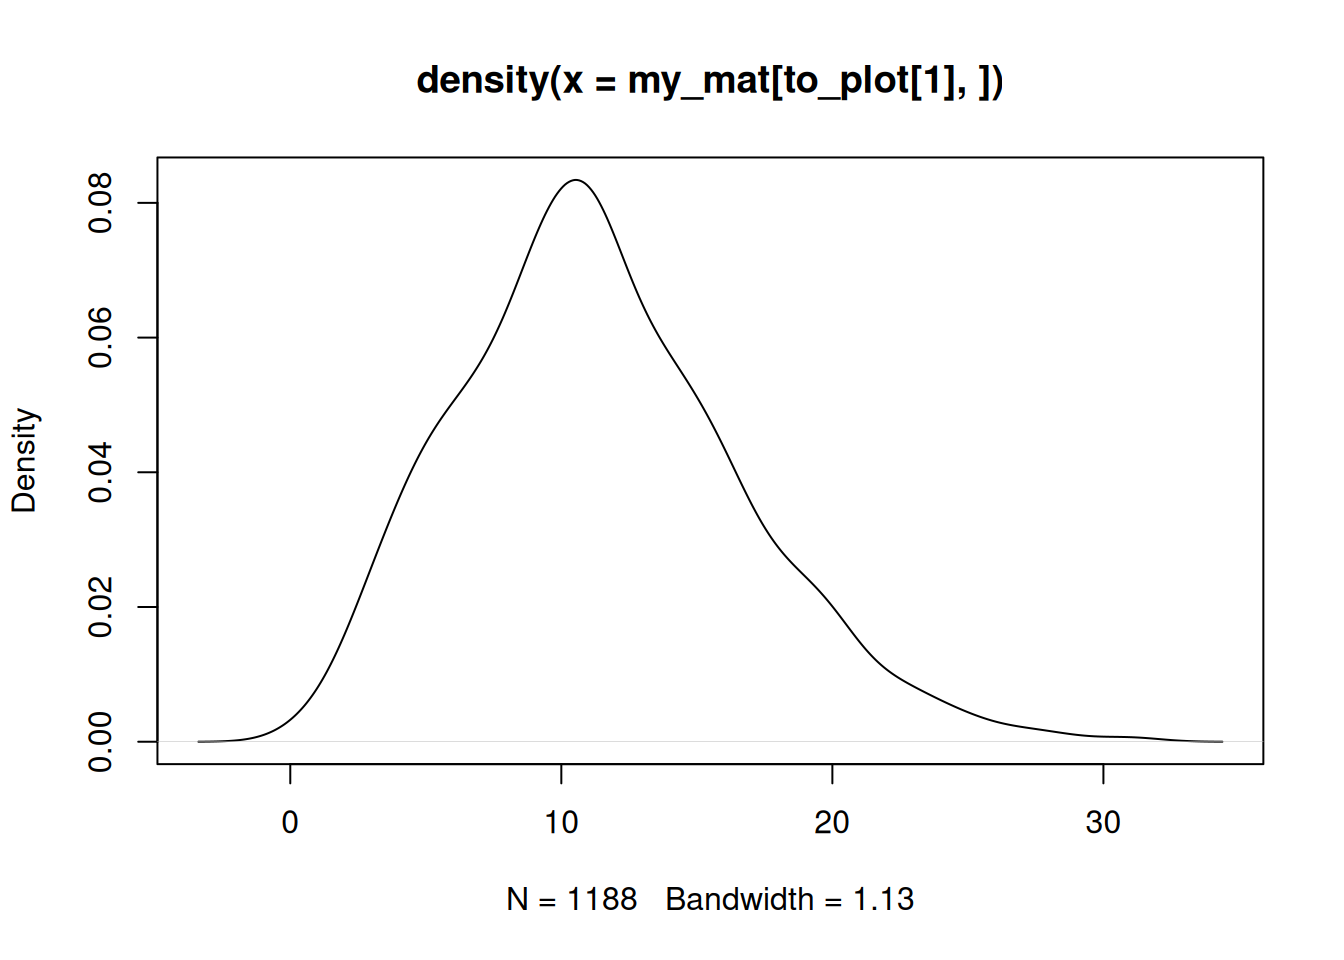
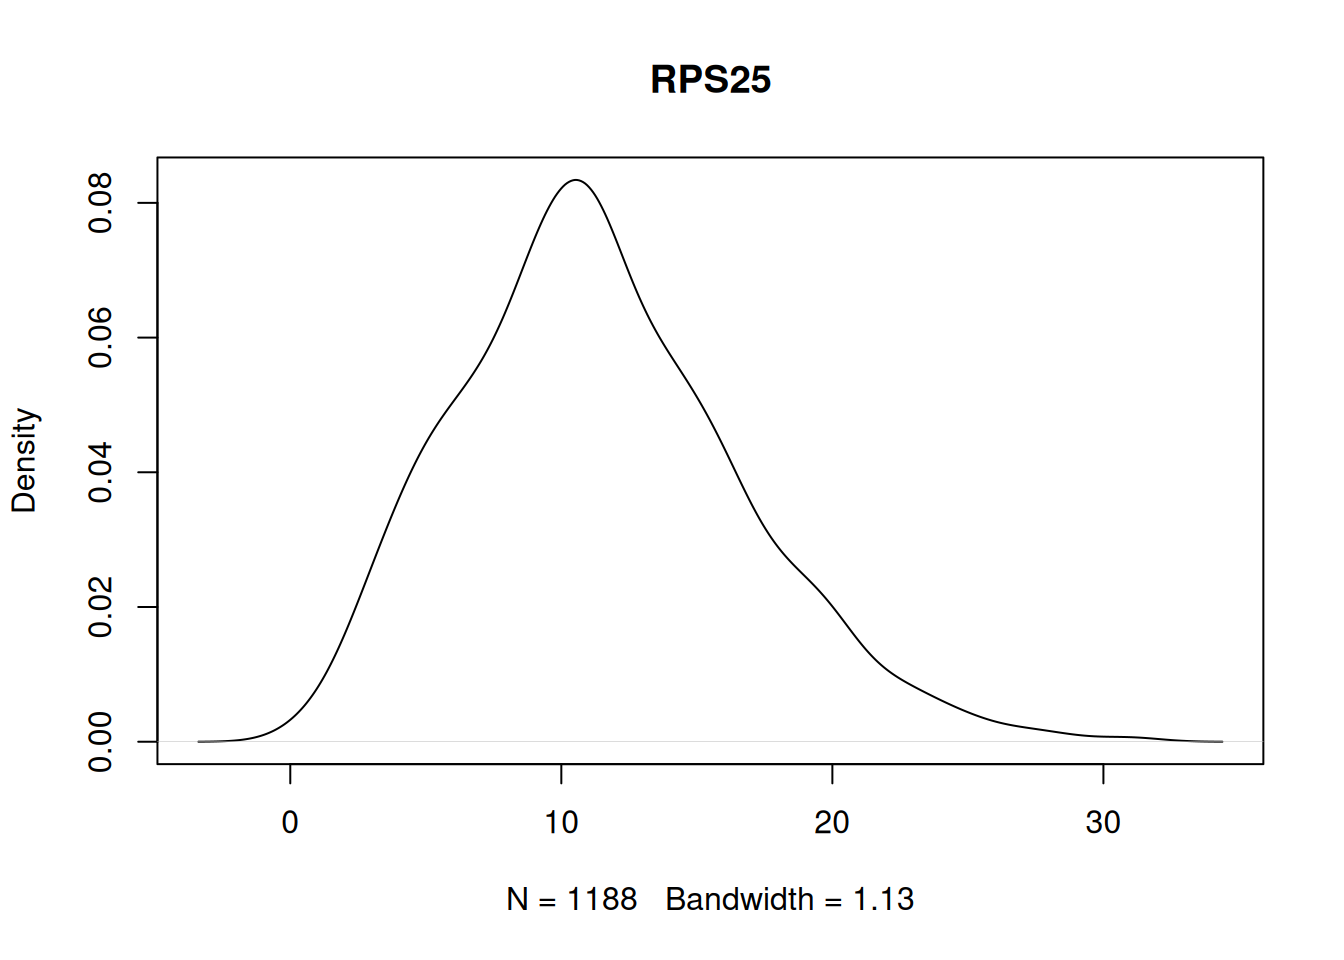
Build site.

Changed region(s): [[0.3125, 0.0625, 0.75, 0.125]]

diff --git a/docs/scrnaseq_bimodal.html b/docs/scrnaseq_bimodal.html
@@ -519,15 +519,15 @@ project makes it easier to run your code on other machines.</p>
 <div class="panel panel-default">
 <div class="panel-heading">
 <p class="panel-title">
-<a data-toggle="collapse" data-parent="#workflowr-checks" href="#strongRepositoryversionstrongahrefhttpsgithubcomdavetangmusetreec2a814a8520bd962068d4a14d8c1a5bfdd9b4254targetblankc2a814aa">
+<a data-toggle="collapse" data-parent="#workflowr-checks" href="#strongRepositoryversionstrongahrefhttpsgithubcomdavetangmusetree34cd9ede5100cb55b14dc5179ad7b37cfdf2e7bctargetblank34cd9eda">
 <span class="glyphicon glyphicon-ok text-success"
 aria-hidden="true"></span> <strong>Repository version:</strong>
-<a href="https://github.com/davetang/muse/tree/c2a814a8520bd962068d4a14d8c1a5bfdd9b4254" target="_blank">c2a814a</a>
+<a href="https://github.com/davetang/muse/tree/34cd9ede5100cb55b14dc5179ad7b37cfdf2e7bc" target="_blank">34cd9ed</a>
 </a>
 </p>
 </div>
 <div
[2 lines of base64/hex data omitted]
 class="panel-collapse collapse">
 <div class="panel-body">
 <p>
@@ -537,7 +537,7 @@ reproducibility.
 </p>
 <p>
 The results in this page were generated with repository version
-<a href="https://github.com/davetang/muse/tree/c2a814a8520bd962068d4a14d8c1a5bfdd9b4254" target="_blank">c2a814a</a>.
+<a href="https://github.com/davetang/muse/tree/34cd9ede5100cb55b14dc5179ad7b37cfdf2e7bc" target="_blank">34cd9ed</a>.
 See the <em>Past versions</em> tab to see a history of the changes made
 to the R Markdown and HTML files.
 </p>
@@ -644,6 +644,40 @@ Message
 </tr>
 </thead>
 <tbody>
+<tr>
+<td>
+Rmd
+</td>
+<td>
+<a href="https://github.com/davetang/muse/blob/34cd9ede5100cb55b14dc5179ad7b37cfdf2e7bc/analysis/scrnaseq_bimodal.Rmd" target="_blank">34cd9ed</a>
+</td>
+<td>
+Dave Tang
+</td>
+<td>
+2025-09-01
+</td>
+<td>
+Check for zero-inflation
+</td>
+</tr>
+<tr>
+<td>
+html
+</td>
+<td>
+<a href="https://rawcdn.githack.com/davetang/muse/945b0f75b5859fc0e9247a14b8cbc25d9d4d90fd/docs/scrnaseq_bimodal.html" target="_blank">945b0f7</a>
+</td>
+<td>
+Dave Tang
+</td>
+<td>
+2025-09-01
+</td>
+<td>
+Build site.
+</td>
+</tr>
 <tr>
 <td>
 Rmd
@@ -841,7 +875,7 @@ Dave Tang
 <div id="detect-peaks" class="section level2">
 <h2>Detect peaks</h2>
 <p>Simple function to check how many peaks are in a distribution.</p>
-<pre class="r"><code>is_unimodal &lt;- function(x, bw = &quot;SJ&quot;) {
+<pre class="r"><code>is_unimodal &lt;- function(x, bw = &quot;SJ&quot;){
   d &lt;- density(x, bw = bw)
   y &lt;- d$y
   
@@ -853,15 +887,89 @@ Dave Tang
 x1 &lt;- rnorm(200, 0)
 plot(density(x1), main = paste0(&quot;Is unimodel: &quot;, is_unimodal(x1)))</code></pre>
 <p><img src="figure/scrnaseq_bimodal.Rmd/unimodal_eg-1.png" width="672" style="display: block; margin: auto;" /></p>
+<p>
+<button type="button" class="btn btn-default btn-xs btn-workflowr btn-workflowr-fig" data-toggle="collapse" data-target="#fig-unimodal_eg-1">
+Past versions of unimodal_eg-1.png
+</button>
+</p>
+<div id="fig-unimodal_eg-1" class="collapse">
+<div class="table-responsive">
+<table class="table table-condensed table-hover">
+<thead>
+<tr>
+<th>
+Version
+</th>
+<th>
+Author
+</th>
+<th>
+Date
+</th>
+</tr>
+</thead>
+<tbody>
+<tr>
+<td>
+<a href="https://github.com/davetang/muse/blob/945b0f75b5859fc0e9247a14b8cbc25d9d4d90fd/docs/figure/scrnaseq_bimodal.Rmd/unimodal_eg-1.png" target="_blank">945b0f7</a>
+</td>
+<td>
+Dave Tang
+</td>
+<td>
+2025-09-01
+</td>
+</tr>
+</tbody>
+</table>
+</div>
+</div>
 <p>Bi-modal example.</p>
 <pre class="r"><code>set.seed(1984)
 x2 &lt;- c(rnorm(110, -3), rnorm(50, 3))
 plot(density(x2), main = paste0(&quot;Is unimodel: &quot;, is_unimodal(x2)))</code></pre>
 <p><img src="figure/scrnaseq_bimodal.Rmd/unimodal_eg2-1.png" width="672" style="display: block; margin: auto;" /></p>
+<p>
+<button type="button" class="btn btn-default btn-xs btn-workflowr btn-workflowr-fig" data-toggle="collapse" data-target="#fig-unimodal_eg2-1">
+Past versions of unimodal_eg2-1.png
+</button>
+</p>
+<div id="fig-unimodal_eg2-1" class="collapse">
+<div class="table-responsive">
+<table class="table table-condensed table-hover">
+<thead>
+<tr>
+<th>
+Version
+</th>
+<th>
+Author
+</th>
+<th>
+Date
+</th>
+</tr>
+</thead>
+<tbody>
+<tr>
+<td>
+<a href="https://github.com/davetang/muse/blob/945b0f75b5859fc0e9247a14b8cbc25d9d4d90fd/docs/figure/scrnaseq_bimodal.Rmd/unimodal_eg2-1.png" target="_blank">945b0f7</a>
+</td>
+<td>
+Dave Tang
+</td>
+<td>
+2025-09-01
+</td>
+</tr>
+</tbody>
+</table>
+</div>
+</div>
 </div>
 <div id="detect-peaks-in-gene-expression" class="section level2">
 <h2>Detect peaks in gene expression</h2>
-<p>Are any of the highly variable genes unimodal, i.e., does the simple
+<p>Are any of the highly expressed genes unimodal, i.e., does the simple
 function work?</p>
 <pre class="r"><code>my_mat &lt;- seurat_obj[names(cluster0_exp[1:200]), cluster0_cells]@assays$RNA$count
 my_tests &lt;- apply(my_mat, 1, is_unimodal)
@@ -872,13 +980,198 @@ FALSE  TRUE
 <p>Plot a unimodal example.</p>
 <pre class="r"><code>to_plot &lt;- names(my_tests[my_tests == TRUE])
 stopifnot(length(to_plot) &gt; 0)
-plot(density(my_mat[to_plot[1], ]))</code></pre>
+plot(density(my_mat[to_plot[1], ]), main=to_plot[1])</code></pre>
 <p><img src="figure/scrnaseq_bimodal.Rmd/unimodal_gene-1.png" width="672" style="display: block; margin: auto;" /></p>
+<p>
+<button type="button" class="btn btn-default btn-xs btn-workflowr btn-workflowr-fig" data-toggle="collapse" data-target="#fig-unimodal_gene-1">
+Past versions of unimodal_gene-1.png
+</button>
+</p>
+<div id="fig-unimodal_gene-1" class="collapse">
+<div class="table-responsive">
+<table class="table table-condensed table-hover">
+<thead>
+<tr>
+<th>
+Version
+</th>
+<th>
+Author
+</th>
+<th>
+Date
+</th>
+</tr>
+</thead>
+<tbody>
+<tr>
+<td>
+<a href="https://github.com/davetang/muse/blob/945b0f75b5859fc0e9247a14b8cbc25d9d4d90fd/docs/figure/scrnaseq_bimodal.Rmd/unimodal_gene-1.png" target="_blank">945b0f7</a>
+</td>
+<td>
+Dave Tang
+</td>
+<td>
+2025-09-01
+</td>
+</tr>
+</tbody>
+</table>
+</div>
+</div>
 <p>Not unimodal example.</p>
 <pre class="r"><code>to_plot &lt;- names(my_tests[my_tests == FALSE])
 stopifnot(length(to_plot) &gt; 0)
-plot(density(my_mat[to_plot[1], ]))</code></pre>
+plot(density(my_mat[to_plot[1], ]), main=to_plot[1])</code></pre>
 <p><img src="figure/scrnaseq_bimodal.Rmd/non_unimodal_gene-1.png" width="672" style="display: block; margin: auto;" /></p>
+<p>
+<button type="button" class="btn btn-default btn-xs btn-workflowr btn-workflowr-fig" data-toggle="collapse" data-target="#fig-non_unimodal_gene-1">
+Past versions of non_unimodal_gene-1.png
+</button>
+</p>
+<div id="fig-non_unimodal_gene-1" class="collapse">
+<div class="table-responsive">
+<table class="table table-condensed table-hover">
+<thead>
+<tr>
+<th>
+Version
+</th>
+<th>
+Author
+</th>
+<th>
+Date
+</th>
+</tr>
+</thead>
+<tbody>
+<tr>
+<td>
+<a href="https://github.com/davetang/muse/blob/945b0f75b5859fc0e9247a14b8cbc25d9d4d90fd/docs/figure/scrnaseq_bimodal.Rmd/non_unimodal_gene-1.png" target="_blank">945b0f7</a>
+</td>
+<td>
+Dave Tang
+</td>
+<td>
+2025-09-01
+</td>
+</tr>
+</tbody>
+</table>
+</div>
+</div>
+</div>
+<div id="check-zero-inflation" class="section level2">
+<h2>Check zero-inflation</h2>
+<p>Function to check for zero-inflation.</p>
+<pre class="r"><code>check_zero_spike &lt;- function(x, bw = &quot;SJ&quot;, window = NULL, alpha = 3, min_zeros = 5) {
+  x &lt;- as.numeric(x)
+  n &lt;- length(x)
+  n0 &lt;- sum(x == 0)
+  p0 &lt;- n0 / n
+ 
+  # no zeros
+  if (n0 == 0) {
+    return(list(
+      n = n, zeros = 0, p_zero_obs = 0,
+      window = NA_real_, expected_near_zero_prop = NA_real_,
+      inflation_ratio = NA_real_, zero_inflated = FALSE, zero_is_mode = FALSE
+    ))
+  }
+  # all zeros
+  if (n0 == n) {
+    return(list(
+      n = n, zeros = n, p_zero_obs = 1,
+      window = 0, expected_near_zero_prop = 0,
+      inflation_ratio = Inf, zero_inflated = TRUE, zero_is_mode = TRUE
+    ))
+  }
+  
+  x_nz &lt;- x[x != 0]
+  
+  # kernel density estimation (KDE) data has boundary bias
+  # reflect if non-negative to reduce boundary bias at 0
+  if (min(x_nz) &gt;= 0) {
+    x_kde &lt;- c(x_nz, -x_nz[x_nz &gt; 0])
+  } else {
+    x_kde &lt;- x_nz
+  }
+  
+  d &lt;- density(x_kde, bw = bw)
+  dx &lt;- mean(diff(d$x))
+  
+  # choose window half-width eps
+  if (is.null(window)) {
+    bw_fd &lt;- 2 * IQR(x_nz) / (length(x_nz)^(1/3))
+    # basic fallback if IQR is 0 or NA
+    if (!is.finite(bw_fd) || bw_fd &lt;= 0) {
+      bw_fd &lt;- sd(x_nz) * 1.06 * length(x_nz)^(-1/5)
+    }
+    eps &lt;- max(min(d$bw, bw_fd), dx)  # at least one grid step
+  } else {
+    eps &lt;- as.numeric(window)
+  }
+  
+  # smooth mass in [-eps, eps] from KDE (this integrates density over that window)
+  mask &lt;- d$x &gt;= -eps &amp; d$x &lt;= eps
+  p_window &lt;- sum(d$y[mask]) * dx
+  
+  # expected fraction of ALL points near 0 coming from the smooth (non-zero) part
+  q &lt;- p_window * (1 - p0)
+  
+  # &quot;0 is a mode?&quot; (compare density at 0 to density at ±eps)
+  d0 &lt;- approx(d$x, d$y, xout = 0)$y
+  dr &lt;- approx(d$x, d$y, xout = eps)$y
+  dl &lt;- approx(d$x, d$y, xout = -eps)$y
+  zero_mode &lt;- d0 &gt;= max(c(dl, dr), na.rm = TRUE)
+  
+  ratio &lt;- p0 / max(q, .Machine$double.eps)
+  inflated &lt;- (n0 &gt;= min_zeros) &amp;&amp; (ratio &gt;= alpha)
+  
+  list(
+    n = n,
+    zeros = n0,
+    p_zero_obs = p0,
+    window = eps,
+    expected_near_zero_prop = q,
+    inflation_ratio = ratio,
+    zero_inflated = inflated,
+    zero_is_mode = zero_mode
+  )
+}</code></pre>
+<p>Not zero-inflated.</p>
+<pre class="r"><code>set.seed(1984)
+x1 &lt;- rnorm(200, 0)
+plot(density(x1), main = paste0(&quot;Is zero-inflated: &quot;, check_zero_spike(x1)$zero_inflated))</code></pre>
+<p><img src="figure/scrnaseq_bimodal.Rmd/not_zero_inflated-1.png" width="672" style="display: block; margin: auto;" /></p>
+<p>Zero-inflated.</p>
+<pre class="r"><code>set.seed(1984)
+x2 &lt;- c(rep(0, 50), rnorm(100, 2))
+plot(density(x2), main = paste0(&quot;Is zero-inflated: &quot;, check_zero_spike(x2)$zero_inflated))</code></pre>
+<p><img src="figure/scrnaseq_bimodal.Rmd/zero_inflated-1.png" width="672" style="display: block; margin: auto;" /></p>
+</div>
+<div id="detect-zero-inflation-in-gene-expression"
+class="section level2">
+<h2>Detect zero-inflation in gene expression</h2>
+<p>Are any of the highly expressed genes zero-inflated, i.e., does the
+simple function work?</p>
+<pre class="r"><code>my_mat &lt;- seurat_obj[names(cluster0_exp[1:200]), cluster0_cells]@assays$RNA$count
+my_tests &lt;- apply(my_mat, 1, function(x) check_zero_spike(x)$zero_inflated)
+table(my_tests)</code></pre>
+<pre><code>my_tests
+FALSE  TRUE 
+   86   114 </code></pre>
+<p>Plot a zero-inflated example.</p>
+<pre class="r"><code>to_plot &lt;- names(my_tests[my_tests == TRUE])
+stopifnot(length(to_plot) &gt; 0)
+plot(density(my_mat[to_plot[1], ]), main = to_plot[1])</code></pre>
+<p><img src="figure/scrnaseq_bimodal.Rmd/zero_inflated_gene-1.png" width="672" style="display: block; margin: auto;" /></p>
+<p>Not zero-inflated example.</p>
+<pre class="r"><code>to_plot &lt;- names(my_tests[my_tests == FALSE])
+stopifnot(length(to_plot) &gt; 0)
+plot(density(my_mat[to_plot[1], ]), main = to_plot[1])</code></pre>
+<p><img src="figure/scrnaseq_bimodal.Rmd/not_zero_inflated_gene-1.png" width="672" style="display: block; margin: auto;" /></p>
 <br>
 <p>
 <button type="button" class="btn btn-default btn-workflowr btn-workflowr-sessioninfo" data-toggle="collapse" data-target="#workflowr-sessioninfo" style="display: block;">
